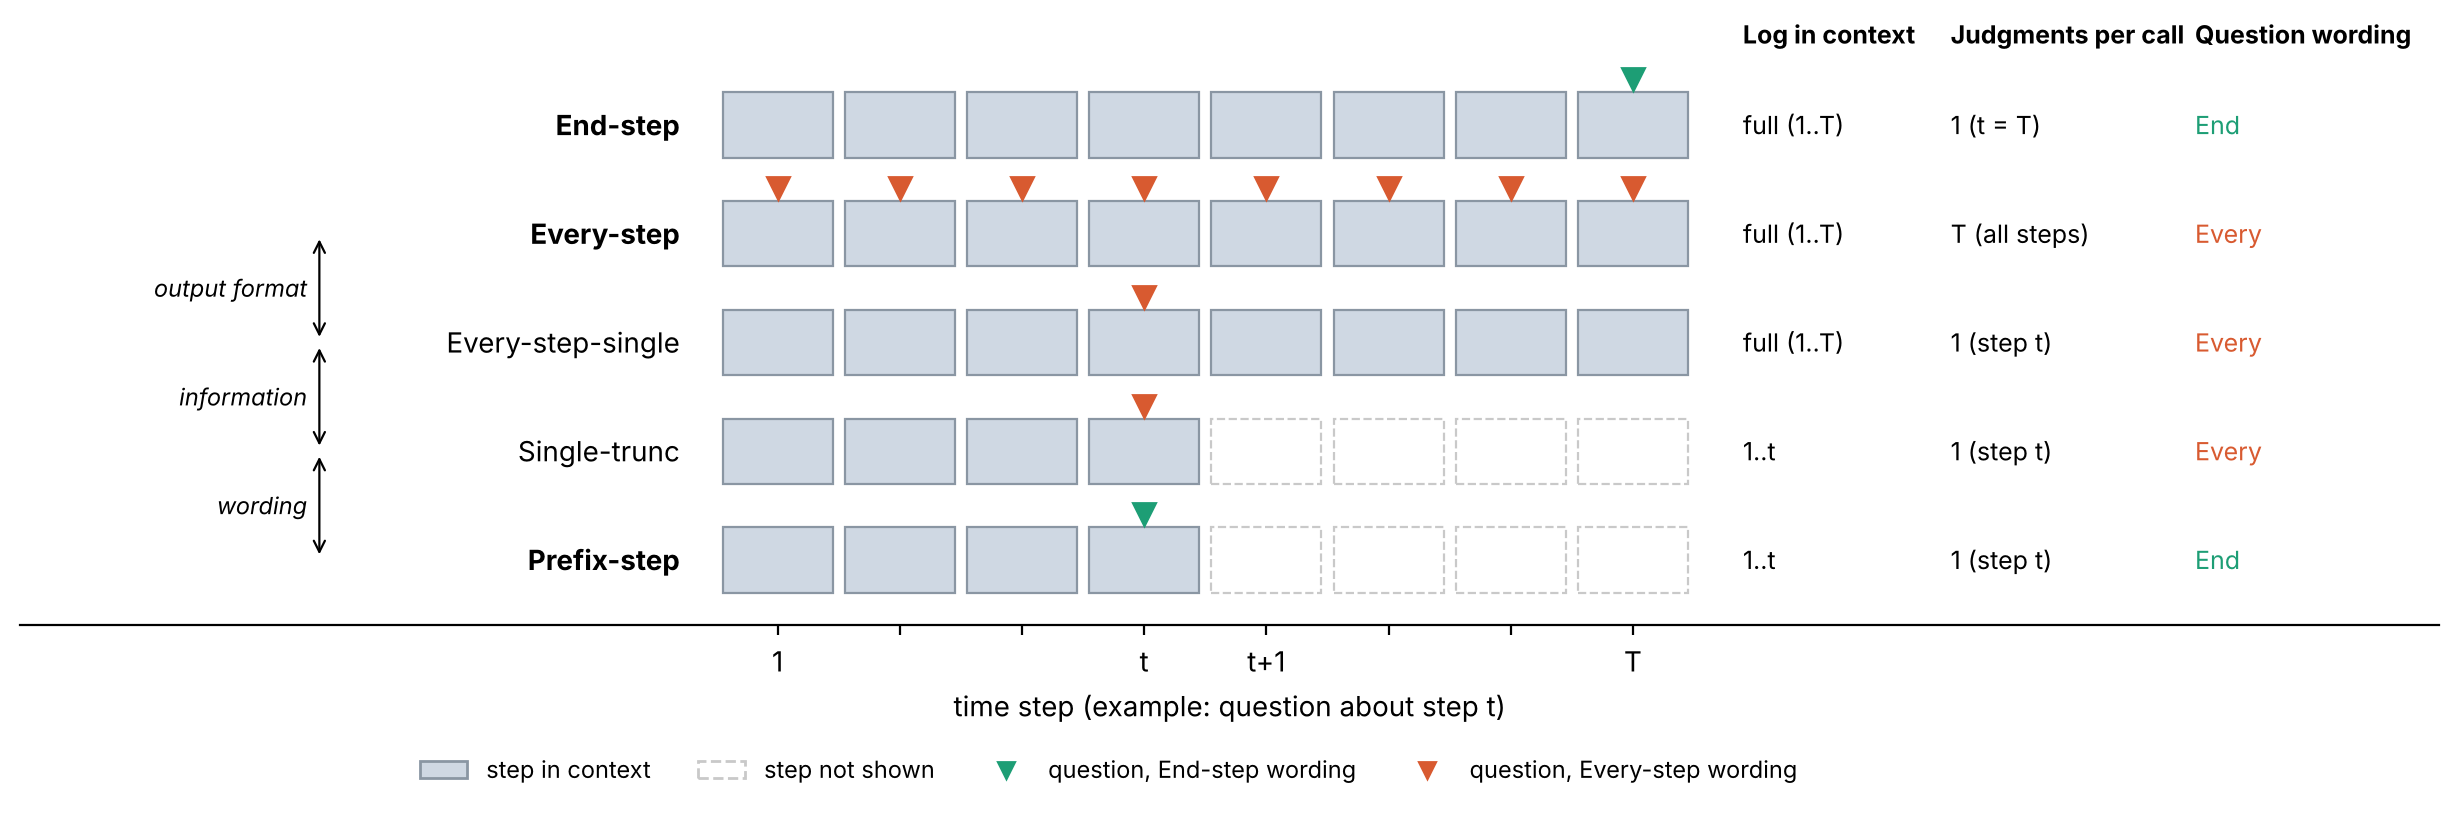
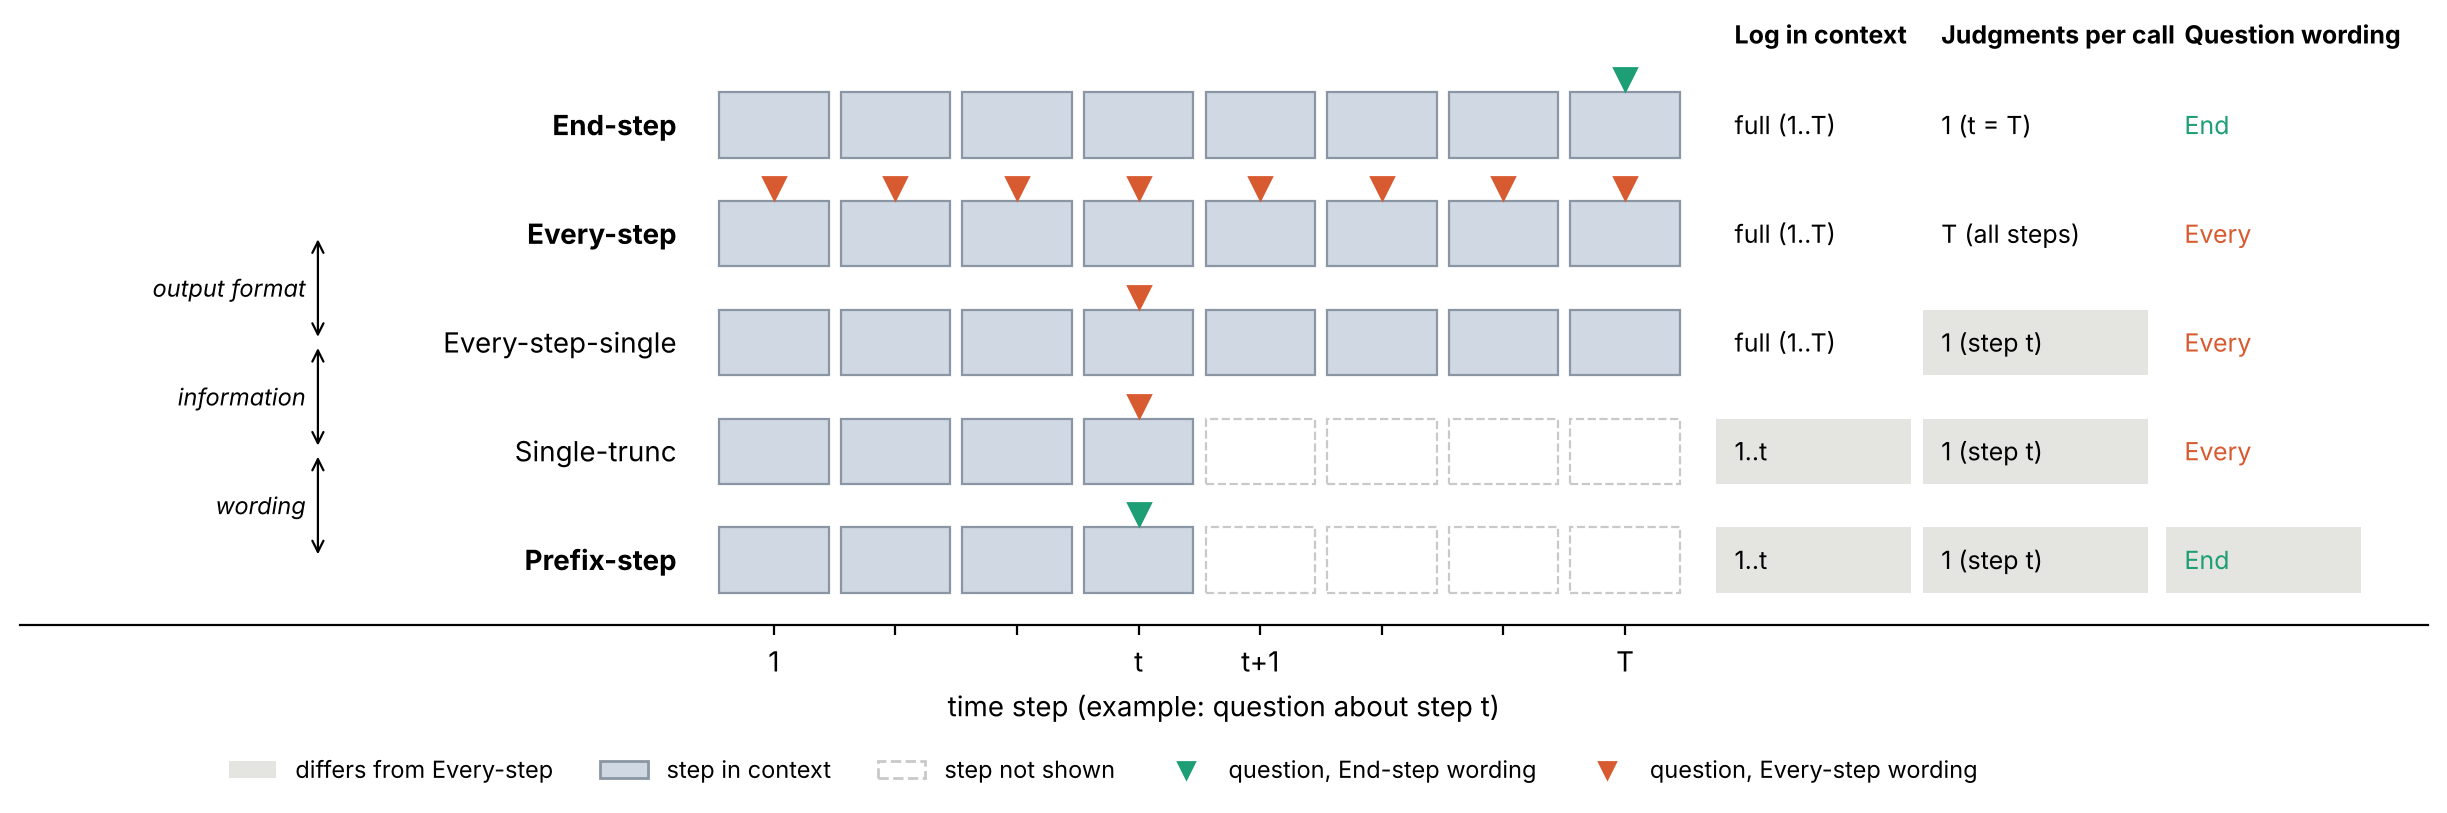
R0: shade attributes that differ from Every-step
Claude-Session: https://claude.ai/code/session_01QAKBEtsvJW6UqNEF9rWiR3

diff --git a/analysis/plot_trunc_figures.py b/analysis/plot_trunc_figures.py
@@ -64,6 +64,12 @@ def fig_r0(out, T=8, tq=4):
         for q in qs:
             ax.plot(q, y + 0.42, marker="v", ms=8, color=wc[word], clip_on=False)
         ax.text(0.2, y, name, ha="right", va="center", fontsize=10, fontweight="bold" if name in ("End-step", "Every-step", "Prefix-step") else "normal")
+        # 열 칸 중 Every-step과 다른 항목에 연회색 배경 (End-step은 기준 조건이라 제외)
+        if name not in ("End-step", "Every-step"):
+            diff = [log != "full", nj != "T (all steps)", word != "Every"]
+            for k, (x0, wd) in enumerate([(T + 0.75, 1.6), (T + 2.45, 1.85), (T + 4.45, 1.6)]):
+                if diff[k]:
+                    ax.add_patch(plt.Rectangle((x0, y - 0.3), wd, 0.6, facecolor="#e4e4e1", edgecolor="none", zorder=0))
         ax.text(T + 0.9, y, "full (1..T)" if log == "full" else "1..t", va="center", fontsize=9)
         ax.text(T + 2.6, y, nj, va="center", fontsize=9)
         ax.text(T + 4.6, y, word, va="center", fontsize=9, color=wc[word])
@@ -76,11 +82,12 @@ def fig_r0(out, T=8, tq=4):
         ax.annotate("", xy=(-2.75, b_), xytext=(-2.75, a_), arrowprops=dict(arrowstyle="<->", lw=0.8))
         ax.text(-2.85, (a_ + b_) / 2, lab, ha="right", va="center", fontsize=8.5, style="italic")
     from matplotlib.lines import Line2D
-    ax.legend(handles=[Patch(facecolor="#cfd8e3", edgecolor="#8a96a3", label="step in context"),
+    ax.legend(handles=[Patch(facecolor="#e4e4e1", edgecolor="none", label="differs from Every-step"),
+                       Patch(facecolor="#cfd8e3", edgecolor="#8a96a3", label="step in context"),
                        Patch(facecolor="white", edgecolor="#c9c9c9", ls="--", label="step not shown"),
                        Line2D([], [], marker="v", ls="", color=wc["End"], label="question, End-step wording"),
                        Line2D([], [], marker="v", ls="", color=wc["Every"], label="question, Every-step wording")],
-              loc="upper center", bbox_to_anchor=(0.45, -0.18), ncol=4, frameon=False, fontsize=8.5)
+              loc="upper center", bbox_to_anchor=(0.45, -0.18), ncol=5, frameon=False, fontsize=8.5)
     ax.set_xlim(-5.2, T + 6.6)
     ax.set_ylim(-0.6, len(rows) - 0.05)
     ax.set_yticks([])
